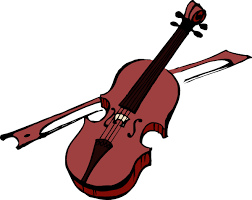
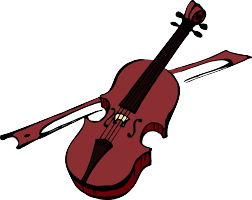
transparent backgrounds

diff --git a/final-project/styles/all.css b/final-project/styles/all.css
@@ -106,14 +106,15 @@ body {
 }
 
 .tile{
-  background-color: #EDE6D8;
+  background-color: #D4C3A7;
   align-self: center;
   height: 40px;
-  width: 100px;
+  width: 110px;
   margin: 14px;
   padding: 5px;
   border: solid;
   border-color: #5C472A;
+  border-radius: 8px;
   font-size: 18px;
   text-align: center;
 
@@ -125,36 +126,74 @@ body {
 }
 
 .profile {
-  width: 200px;
+  width: 225px;
   height: 300px;
-  padding-right: 15px;
+  padding-right: 20px;
+
 }
 
 .instrument{
   width: 200px;
   height: 150px;
   padding-right: 15px;
+  padding-left: 8px;
   align-self: center;
 
 }
 
 .about{
+  background-color: #D4C3A7;
   display: flex;
   flex-direction: row;
   border: solid;
   border-color: #5C472A;
-  background-color: white;
+  border-radius: 5px;
   justify-content: space-between;
-  font-size: 18px;
+  font-size: 22px;
+}
+#rishi_header{
+  padding-top: 65px;
+}
+
+#amit_header{
+  padding-top: 65px;
+}
+
+#nikki_header{
+  padding-top: 65px;
+}
+
+#colin_header{
+  padding-top: 65px;
+}
+
+#troy_header{
+  padding-top: 65px;
+}
+
+#robbert_header{
+  padding-top: 65px;
 }
 
 #noah {
-  width: 200px;
-  height: 250px;
+  width: 225px;
+  height: 300px;
 }
 
 .blurb {
   position: relative;
+}
+
+.paragraph {
+  width: 775px;
+}
+
+#c-sax {
+  width: 240px;
+  height: 180px;
+  padding-right: 15px;
+  padding-left: 8px;
+  align-self: center;
 }
 
 /* ---------- Booking Page Styling ----------*/

diff --git a/final-project/about.php b/final-project/about.php
@@ -15,61 +15,115 @@
   <section id="tiles">
 
     <div class="tile">
-      <a href="#noah"> Noah Li </a>
+      <a href="#noah_header"> Noah Li </a>
     </div>
 
     <div class="tile">
-      <a href="#rishi"> Rishi Verma </a>
+      <a href="#rishi_header"> Rishi Verma </a>
     </div>
 
     <div class="tile">
-      <a href="#amit"> Amit Mizrahi </a>
+      <a href="#amit_header"> Amit Mizrahi </a>
     </div>
 
     <div class="tile">
-      <a href="#nikki"> Nikki Love </a>
+      <a href="#nikki_header"> Nikki Love </a>
     </div>
 
+    <div class="tile">
+      <a href="#colin_header"> Colin Hancock </a>
+    </div>
+
+    <div class="tile">
+      <a href="#troy_header"> Troy Anderson </a>
+    </div>
+
+    <div class="tile">
+      <a href="#robbert_header"> Robbert Van Renesse </a>
+    </div>
   </section>
 
-  <section class='blurb'>
+  <section id="noah_header">
     <h2>Noah Li</h2>
     <div class="about">
-      <img src="images/noah-li.png" alt="Noah Li playing" class="profile" id="noah">
-      <p>Noah Li is a 3rd year information science major at Cornell University. He plays the drums good.</p>
-      <img src="images/c-drums.jpeg" alt="Noah's instrument" class="instrument" id="c-drums">
+      <img src="images/Noah_Li.jpg" alt="Noah Li playing" class="profile" id="noah">
+      <p class= "paragraph">Noah Li is an Information Science major from Westchester, New York. Before joining the Syncopators, Noah spent his time playing Blink-182 in his basement, which he is arguably still doing. Noah was classically trained as a pianist, violist, and conductor. He will sing if the price is high enough, and his family is not present. Major drumming influences include: Travis Barker, Hal Smith, Tony Sbarbaro, and Ray Bauduc.</p>
+      <img src="images/c-drums.png" alt="Noah's instrument" class="instrument" id="c-drums">
       <!--Source: http://www.clker.com/clipart-4464.html-->
     </div>
   </section>
 
-  <section class='blurb'>
+  <div id="rishi_header">
+  </div>
+  <section>
     <h2>Rishi Verma</h2>
     <div class="about">
       <img src="images/trombone.jpg" alt="Rishi Verma playing" class="profile" id="rishi">
-      <p>Rishi Verma is some dude. Lorem ipsum dolor sit amet, consectetur adipisicing elit. He plays the trombone.</p>
-      <img src="images/c-trombone.jpg" alt="Rishi's instrument" class="instrument" id="c-trombone">
+      <p class= "paragraph">Rishi Verma is some dude. Lorem ipsum dolor sit amet, consectetur adipisicing elit. He plays the trombone.</p>
+      <img src="images/c-trombone.png" alt="Rishi's instrument" class="instrument" id="c-trombone">
       <!--Source: https://www.123rf.com/photo_54963817_stock-illustration-2d-cartoon-illustration-of-bass-trombone.html-->
     </div>
   </section>
 
+  <div id="amit_header">
+  </div>
   <section class='blurb'>
     <h2>Amit Mazrahi</h2>
     <div class="about">
       <img src="images/piano.jpg" alt="Amit Mizrahi playing" class="profile" id="amit">
-      <p> Amit Mazrahi Lorem ipsum dolor sit amet, consectetur adipisicing elit. He plays the piano.</p>
+      <p class= "paragraph"> Amit Mizrahi, from West Bloomfield, Michigan, is a computer science major in the College of Engineering. He has been studying classical piano since the age of seven and jazz piano since high school. On campus, he is involved with the Cornell Data Science project team and co-founded a student-taught introductory data science course. He also writes software as a research assistant at the Johnson Business School. Amit will be graduating and moving to Silicon Valley in 2018 to work as a software engineer.</p>
       <img src="images/c-piano.png" alt="Amit's instrument" class="instrument" id="c-piano">
       <!-- Source: http://clipart-library.com/cartoon-piano-pictures.html -->
     </div>
   </section>
 
+  <div id="nikki_header">
+  </div>
   <section class='blurb'>
     <h2>Nikki Love</h2>
     <div class="about">
       <img src="images/violin.jpg" alt="Nikki Love playing" class="profile" id="nikki">
-      <p> Nikki loveLorem ipsum dolor sit amet, consectetur adipisicing elit. She plays the violin.</p>
+      <p class= "paragraph"> Nikki loveLorem ipsum dolor sit amet, consectetur adipisicing elit. She plays the violin.</p>
       <img src="images/c-violin.png" alt="Nikki's instrument" class="instrument">
-      <!--Source: http://www.clker.com/clipart-violin.html -->
+            <!--Source: http://www.clker.com/clipart-violin.html -->
     </div>
   </section>
+
+  <div id="colin_header">
+  </div>
+  <section>
+    <h2>Colin Hancock</h2>
+    <div class="about">
+      <img src="images/muted_trumpet.jpg" alt="Colin Hancock playing" class="profile" id="colin">
+      <p class= "paragraph">Colin Hancock is a junior Urban and Regional Studies major from Buda, Texas. He is also a music and law and society minor. Colin enjoys playing and listening to early jazz, as well as the study of its history and influence. He picked up the trumpet after falling in love with the music of Bix Beiderbecke, Louis Armstrong and Sidney Bechet. He is also an avid record collector and amateur historian in territory and Texas Jazz. He plans on eventually applying to law schools, as well as playing music professionally for his career.</p>
+      <img src="images/c-trumpet.gif" alt="Colin's instrument" class="instrument" id="c-trumpet">
+      <!--Source: https://thetomatos.com/free-clipart-29687/-->
+    </div>
+  </section>
+
+  <div id="troy_header">
+  </div>
+  <section>
+    <h2>Troy Anderson</h2>
+    <div class="about">
+      <img src="images/man_sax.jpg" alt="Troy Anderson playing" class="profile" id="troy">
+      <p class= "paragraph">Troy Anderson is an Undergraduate from Pittsford, NY,  studying Biological Sciences set to graduate in 2019. His passion for jazz began with a Pre-Collegiate Diploma in Jazz Saxophone from Eastman Community Music School, and has carried over to playing in various groups on Cornell’s campus. Beyond jazz, he eventually hopes to pursue a PhD in Genetics.</p>
+      <img src="images/c-sax.png" alt="Troy's instrument" class="instrument" id="c-sax">
+      <!--Source: https://www.zazzle.com/saxophone+cartoon+postcards-->
+    </div>
+  </section>
+
+  <div id="robbert_header">
+  </div>
+  <section>
+    <h2>Robbert Van Renesse</h2>
+    <div class="about">
+      <img src="images/banjo.jpg" alt="Robbert Van Renesse playing" class="profile" id="troy">
+      <p class= "paragraph">Robbert van Renesse lives in Ithaca, NY and loves playing early jazz on tenor and plectrum banjo as well as uke and guitar.  Besides the Original Cornell Syncopators, Robbert plays with the Ithaca-based Ageless Jazz Band and the Cortland-based JazzHappensBand.</p>
+      <img src="images/c-banjo.png" alt="Robbert's instrument" class="instrument" id="c-banjo">
+      <!--Source: https://www.clker.com/clipart-12745.html-->
+    </div>
+  </section>
+
 </body>
 </html>
